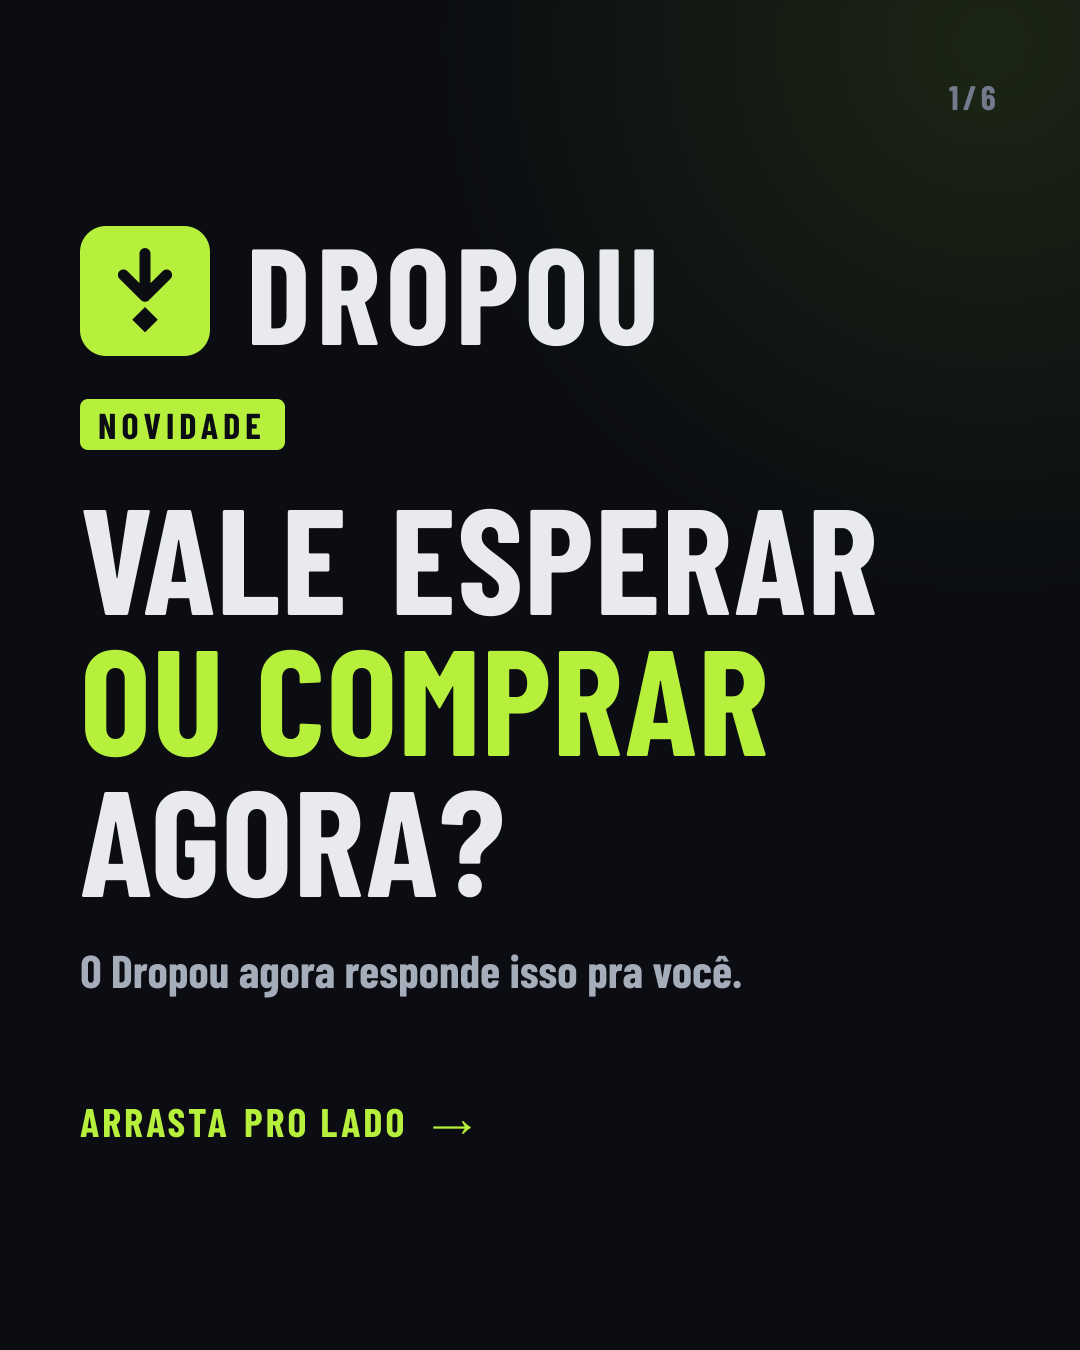
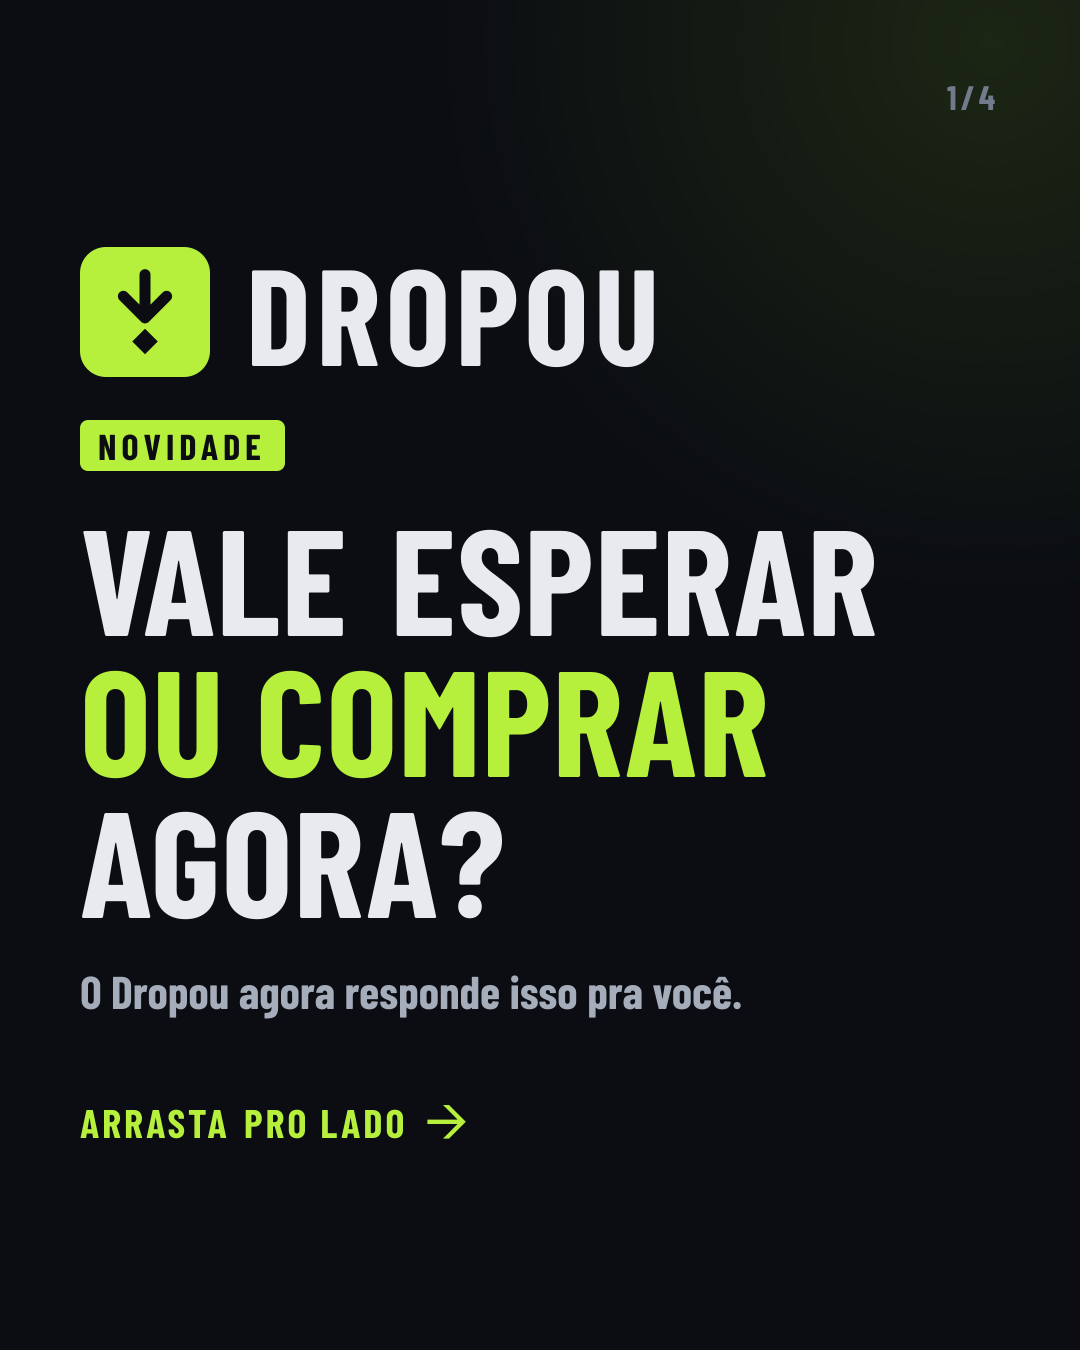
Media kit: carrossel do Vale esperar? mais curto (4 slides) e cartão fiel ao site

diff --git a/scripts/instagram-vale-esperar.tsx b/scripts/instagram-vale-esperar.tsx
@@ -14,11 +14,11 @@ import { getStore } from "../src/lib/stores";
 import type { Verdict } from "../src/lib/verdict";
 import { buildVerdictViews } from "../src/lib/verdict-variants";
 
-const C = { bg: "#0b0d12", surface: "#12151c", surface2: "#181c25", line: "#242a36", text: "#e8eaef", text2: "#a5acba", muted: "#727b8c", accent: "#b6f03c", warn: "#f5b83d", ink: "#0b0d12" };
+const C = { bg: "#0b0d12", surface: "#12151c", line: "#242a36", text: "#e8eaef", text2: "#a5acba", muted: "#727b8c", accent: "#b6f03c", warn: "#f5b83d", ink: "#0b0d12" };
 const W = 1080;
 const H = 1350;
 const OUT = "media-kit/instagram-vale-esperar";
-const TOTAL = 6;
+const TOTAL = 4;
 
 // jogos de exemplo: um em que vale esperar e um em que é bom comprar (os vereditos vêm do banco, na hora)
 const WAIT_SLUG = "age-of-empires-ii-definitive-edition";
@@ -68,6 +68,14 @@ const Sub = ({ children, size = 46 }: { children: ReactNode; size?: number }) =>
   <div style={{ display: "flex", marginTop: 36, fontSize: size, lineHeight: 1.15, color: C.text2 }}>{children}</div>
 );
 
+/** Título de uma linha com um trecho em destaque. */
+const Head = ({ before, lime, size = 88 }: { before: string; lime: string; size?: number }) => (
+  <div style={{ display: "flex", fontSize: size, lineHeight: 0.94, textTransform: "uppercase", letterSpacing: 1 }}>
+    <span style={{ color: C.text }}>{before}</span>
+    <span style={{ color: C.accent, marginLeft: size * 0.22 }}>{lime}</span>
+  </div>
+);
+
 /** Ícones do site (mesmos traços de src/components/icon.tsx). */
 const ICONS = {
   hourglass: ["M6 3h12", "M6 21h12", "M7 3v3a5 5 0 0 0 2 4l3 2-3 2a5 5 0 0 0-2 4v3", "M17 3v3a5 5 0 0 1-2 4l-3 2 3 2a5 5 0 0 1 2 4v3"],
@@ -77,7 +85,7 @@ const ICONS = {
   calendar: ["M5 5h14a1 1 0 0 1 1 1v13a1 1 0 0 1-1 1H5a1 1 0 0 1-1-1V6a1 1 0 0 1 1-1z", "M4 10h16", "M8 3v4", "M16 3v4"],
   clock: ["M12 3a9 9 0 1 0 0 18 9 9 0 0 0 0-18z", "M12 7v5l3 3"],
 } as const;
-const Ico = ({ name, size = 36, color = C.muted }: { name: keyof typeof ICONS; size?: number; color?: string }) => (
+const Ico = ({ name, size, color = C.muted }: { name: keyof typeof ICONS; size: number; color?: string }) => (
   <svg width={size} height={size} viewBox="0 0 24 24" fill="none" stroke={color} strokeWidth={1.8} strokeLinecap="round" strokeLinejoin="round">
     {ICONS[name].map((d) => (
       <path key={d} d={d} />
@@ -107,76 +115,83 @@ async function load(slug: string): Promise<Example> {
 
 const plural = (n: number, one: string, many: string) => `${n} ${n === 1 ? one : many}`;
 
+/** As mesmas frases do cartão do site (src/components/buy-verdict.tsx). */
 function notesOf(v: Verdict): { icon: keyof typeof ICONS; text: string }[] {
   const notes: { icon: keyof typeof ICONS; text: string }[] = [];
   if (v.kind === "wait") notes.push({ icon: "floor", text: `No último ano já custou ${formatCents(v.lowCents)}, ${formatCents(v.currentCents - v.lowCents)} a menos que hoje.` });
-  if (v.kind === "wait" && v.nearLowCount > 0) notes.push({ icon: "chart", text: `Chegou perto desse preço ${plural(v.nearLowCount, "vez", "vezes")} em 12 meses.` });
+  if (v.kind === "wait" && v.nearLowCount > 0) notes.push({ icon: "chart", text: `Chegou perto desse preço ${plural(v.nearLowCount, "vez", "vezes")} nos últimos 12 meses.` });
   if (v.kind === "buy") {
     if (v.daysAtCurrent != null) notes.push({ icon: "clock", text: v.daysAtCurrent < 1 ? "Esse preço começou hoje." : `Esse preço está valendo há ${plural(v.daysAtCurrent, "dia", "dias")}.` });
-    if (v.nearLowCount > 1) notes.push({ icon: "chart", text: `Já chegou perto dele ${plural(v.nearLowCount, "vez", "vezes")} em 12 meses.` });
+    if (v.nearLowCount > 1) notes.push({ icon: "chart", text: `Já chegou perto dele ${plural(v.nearLowCount, "vez", "vezes")} nos últimos 12 meses.` });
   }
-  if (v.sale) notes.push({ icon: "calendar", text: `${v.sale.name}: ${v.sale.approx ? "por volta de " : ""}em ${v.sale.days} dias.` });
+  if (v.sale) {
+    const when = v.sale.days === 0 ? "começa hoje" : v.sale.days === 1 ? "começa amanhã" : `${v.sale.approx ? "por volta de " : ""}em ${v.sale.days} dias`;
+    notes.push({ icon: "calendar", text: `${v.sale.name}: ${when}. Costuma ter descontos maiores.` });
+  }
   return notes;
 }
 
-/** Réplica do cartão "Vale esperar?" do site, com os dados reais do exemplo. */
+/**
+ * Réplica do cartão "Vale esperar?" da página do jogo (src/components/buy-verdict.tsx), com os dados reais do exemplo.
+ * Todas as medidas são as do site (em px) multiplicadas por S, para o cartão ficar legível no celular.
+ */
+const S = 2.0;
+const px = (n: number) => n * S;
+const SANS = "Geist";
+
 function VerdictCard({ ex }: { ex: Example }) {
   const v = ex.verdict;
   const wait = v.kind === "wait";
   const tone = wait ? C.warn : C.accent;
-  const rows: [string, string, string?][] = [];
-  if (ex.historic) rows.push(["Preço histórico", formatCents(ex.historic.cents), [ex.historic.when, ex.historic.store].filter(Boolean).join(" · ")]);
-  if (!ex.historic || ex.historic.cents !== v.lowCents) rows.push(["Menor em 12 meses", formatCents(v.lowCents)]);
-  rows.push(["Média em 12 meses", formatCents(v.avgCents)]);
+  const rows: { label: string; value: string; hint?: string; icon?: keyof typeof ICONS }[] = [];
+  if (ex.historic) rows.push({ label: "Preço histórico", value: formatCents(ex.historic.cents), hint: [ex.historic.when, ex.historic.store].filter(Boolean).join(" · "), icon: "floor" });
+  if (!ex.historic || ex.historic.cents !== v.lowCents) rows.push({ label: "Menor em 12 meses", value: formatCents(v.lowCents) });
+  rows.push({ label: "Média em 12 meses", value: formatCents(v.avgCents) });
+  const notes = notesOf(v);
+
   return (
-    <div style={{ display: "flex", flexDirection: "column", border: `2px solid ${C.line}`, borderRadius: 22, background: C.surface, overflow: "hidden" }}>
-      <div style={{ display: "flex", alignItems: "center", gap: 14, padding: "22px 34px", borderBottom: `2px solid ${C.line}`, fontSize: 30, letterSpacing: 5, textTransform: "uppercase", color: C.text2 }}>
-        <Ico name={wait ? "hourglass" : "check"} size={34} color={tone} />
+    <div style={{ display: "flex", flexDirection: "column", width: 920, border: `${px(1)}px solid ${C.line}`, borderRadius: px(6), background: C.surface, overflow: "hidden" }}>
+      {/* título: h2 em caixa alta com ícone */}
+      <div style={{ display: "flex", alignItems: "center", gap: px(8), padding: `${px(12)}px ${px(20)}px`, borderBottom: `${px(1)}px solid ${C.line}`, fontFamily: "Barlow", fontSize: px(14), letterSpacing: px(2.1), textTransform: "uppercase", color: C.text2 }}>
+        <Ico name={wait ? "hourglass" : "check"} size={px(16)} color={tone} />
         Vale esperar?
       </div>
-      <div style={{ display: "flex", flexDirection: "column", padding: "28px 34px 12px" }}>
-        <div style={{ display: "flex", alignSelf: "flex-start", fontSize: 26, letterSpacing: 3, textTransform: "uppercase", color: tone, border: `2px solid ${wait ? "rgba(245,184,61,0.45)" : "rgba(182,240,60,0.4)"}`, background: wait ? "rgba(245,184,61,0.10)" : "rgba(182,240,60,0.08)", borderRadius: 6, padding: "2px 12px" }}>
+      {/* selo + título do veredito */}
+      <div style={{ display: "flex", flexDirection: "column", gap: px(8), padding: `${px(16)}px ${px(20)}px` }}>
+        <div style={{ display: "flex", alignSelf: "flex-start", fontFamily: SANS, fontSize: px(11), lineHeight: `${px(16)}px`, letterSpacing: px(0.55), textTransform: "uppercase", color: tone, border: `${px(1)}px solid ${wait ? "rgba(245,184,61,0.4)" : "rgba(182,240,60,0.35)"}`, background: wait ? "rgba(245,184,61,0.1)" : "rgba(182,240,60,0.08)", borderRadius: px(3), padding: `${px(1)}px ${px(6)}px` }}>
           {wait ? "Vale esperar" : "Bom momento"}
         </div>
-        <div style={{ display: "flex", marginTop: 16, fontSize: 68, lineHeight: 1, textTransform: "uppercase" }}>{v.title}</div>
-        <div style={{ display: "flex", marginTop: 14, fontSize: 32, color: C.muted }}>{`${ex.title} · hoje ${formatCents(v.currentCents)}`}</div>
+        <div style={{ display: "flex", fontFamily: "Barlow", fontSize: px(24), lineHeight: 1.25, color: C.text }}>{v.title}</div>
       </div>
-      <div style={{ display: "flex", flexDirection: "column", gap: 14, padding: "10px 34px 26px" }}>
-        {notesOf(v).map((n) => (
-          <div key={n.text} style={{ display: "flex", alignItems: "flex-start", gap: 16, fontSize: 34, lineHeight: 1.1, color: C.text2 }}>
-            <div style={{ display: "flex", marginTop: 2 }}>
-              <Ico name={n.icon} size={34} />
+      {/* notas com ícone */}
+      {notes.length > 0 && (
+        <div style={{ display: "flex", flexDirection: "column", gap: px(8), padding: `0 ${px(20)}px ${px(16)}px` }}>
+          {notes.map((n) => (
+            <div key={n.text} style={{ display: "flex", alignItems: "flex-start", gap: px(10), fontFamily: SANS, fontSize: px(14), lineHeight: `${px(20)}px`, color: C.text2 }}>
+              <div style={{ display: "flex", marginTop: px(2) }}>
+                <Ico name={n.icon} size={px(16)} />
+              </div>
+              <div style={{ display: "flex", flex: 1 }}>{n.text}</div>
             </div>
-            <div style={{ display: "flex", flex: 1 }}>{n.text}</div>
+          ))}
+        </div>
+      )}
+      {/* preço histórico, menor e média */}
+      {rows.map((r) => (
+        <div key={r.label} style={{ display: "flex", alignItems: "baseline", justifyContent: "space-between", gap: px(12), padding: `${px(10)}px ${px(20)}px`, borderTop: `${px(1)}px solid ${C.line}`, fontFamily: SANS, fontSize: px(14) }}>
+          <div style={{ display: "flex", alignItems: "center", gap: px(6), color: C.muted }}>
+            {r.icon && <Ico name={r.icon} size={px(16)} />}
+            {r.label}
           </div>
-        ))}
-      </div>
-      {rows.map(([label, value, hint]) => (
-        <div key={label} style={{ display: "flex", alignItems: "center", justifyContent: "space-between", padding: "16px 34px", borderTop: `2px solid ${C.line}` }}>
-          <div style={{ display: "flex", fontSize: 32, color: C.muted }}>{label}</div>
           <div style={{ display: "flex", flexDirection: "column", alignItems: "flex-end" }}>
-            <div style={{ display: "flex", fontSize: 40, color: C.text }}>{value}</div>
-            {hint && <div style={{ display: "flex", fontSize: 24, color: C.muted }}>{hint}</div>}
+            <div style={{ display: "flex", fontFamily: "Barlow", fontSize: px(17), color: C.text }}>{r.value}</div>
+            {r.hint && <div style={{ display: "flex", fontSize: px(12), color: C.muted }}>{r.hint}</div>}
           </div>
         </div>
       ))}
-    </div>
-  );
-}
-
-/** Seletor de plataformas do cabeçalho, com uma marcada, para o slide "muda conforme o que você joga". */
-function PlatformChips({ active }: { active: string }) {
-  const items = ["PC", "PlayStation", "Xbox", "Nintendo"];
-  return (
-    <div style={{ display: "flex", gap: 16, flexWrap: "wrap" }}>
-      {items.map((p) => {
-        const on = p === active;
-        return (
-          <div key={p} style={{ display: "flex", fontSize: 42, letterSpacing: 2, textTransform: "uppercase", padding: "12px 30px", borderRadius: 12, border: `2px solid ${on ? C.accent : C.line}`, background: on ? C.accent : C.surface, color: on ? C.ink : C.text2 }}>
-            {p}
-          </div>
-        );
-      })}
+      <div style={{ display: "flex", padding: `${px(8)}px ${px(20)}px`, borderTop: `${px(1)}px solid ${C.line}`, fontFamily: SANS, fontSize: px(11), color: C.muted }}>
+        Estimativa pelo histórico de preços. Não é garantia de que o preço vai cair.
+      </div>
     </div>
   );
 }
@@ -195,40 +210,25 @@ const buildSlides = (wait: Example, buy: Example): ReactNode[] => [
   </Frame>,
 
   <Frame key="2" n={2}>
-    <Big size={118} lines={[["Todo desconto"], ["é um bom"], ["desconto?", true]]} />
-    <Sub size={50}>Nem sempre. Tem jogo que já ficou muito mais barato, e tem jogo que está no menor preço agora.</Sub>
-    <Sub size={50}>Saber a diferença pode te poupar vários reais.</Sub>
-  </Frame>,
-
-  <Frame key="3" n={3}>
-    <Big size={92} lines={[["Quando vale"], ["esperar", true]]} />
-    <div style={{ display: "flex", flexDirection: "column", marginTop: 34 }}>
+    <Head before="Quando vale" lime="esperar" />
+    <div style={{ display: "flex", marginTop: 40 }}>
       <VerdictCard ex={wait} />
     </div>
   </Frame>,
 
-  <Frame key="4" n={4}>
-    <Big size={92} lines={[["Quando é bom"], ["comprar", true]]} />
-    <div style={{ display: "flex", flexDirection: "column", marginTop: 34 }}>
+  <Frame key="3" n={3}>
+    <Head before="Quando é bom" lime="comprar" />
+    <div style={{ display: "flex", marginTop: 40 }}>
       <VerdictCard ex={buy} />
     </div>
   </Frame>,
 
-  <Frame key="5" n={5}>
-    <Big size={112} lines={[["Muda conforme"], ["o que você joga", true]]} />
-    <div style={{ display: "flex", marginTop: 56 }}>
-      <PlatformChips active="PlayStation" />
-    </div>
-    <Sub size={48}>Marque suas plataformas no site e o veredito considera só as lojas que importam pra você.</Sub>
-    <Sub size={36}>Baseado no histórico de preços dos últimos 12 meses. É uma estimativa, não uma garantia.</Sub>
-  </Frame>,
-
-  <Frame key="6" n={6} footer={false}>
+  <Frame key="4" n={4} footer={false}>
     <Lockup size={110} />
     <div style={{ display: "flex", marginTop: 64 }}>
-      <Big size={140} lines={[["Teste agora."], ["É de graça.", true]]} />
+      <Big size={130} lines={[["Teste no seu"], ["próximo jogo", true]]} />
     </div>
-    <Sub size={44}>Abra um jogo no site e veja se vale esperar.</Sub>
+    <Sub size={44}>Grátis, sem cadastro, e muda conforme as plataformas que você marcar.</Sub>
     <div style={{ display: "flex", alignItems: "center", gap: 20, marginTop: 70 }}>
       <div style={{ display: "flex", fontSize: 70, background: C.accent, color: C.ink, borderRadius: 14, padding: "10px 34px", letterSpacing: 1 }}>{BRAND.domain}</div>
       <div style={{ display: "flex", fontSize: 32, letterSpacing: 3, textTransform: "uppercase", border: `2px solid ${C.accent}`, color: C.accent, borderRadius: 10, padding: "4px 16px" }}>beta</div>
@@ -240,9 +240,18 @@ async function main() {
   const [wait, buy] = await Promise.all([load(WAIT_SLUG), load(BUY_SLUG)]);
   console.log("exemplos:", wait.title, wait.verdict.kind, "|", buy.title, buy.verdict.kind);
   const barlow = await readFile("src/assets/BarlowCondensed-Bold.ttf");
+  // o site usa Inter no texto corrido; o Geist (já incluído no Next) é o mais parecido que temos em arquivo
+  const geist = await readFile("node_modules/next/dist/compiled/@vercel/og/Geist-Regular.ttf");
   await mkdir(OUT, { recursive: true });
   for (const [i, slide] of buildSlides(wait, buy).entries()) {
-    const res = new ImageResponse(slide as React.ReactElement, { width: W, height: H, fonts: [{ name: "Barlow", data: barlow, weight: 700, style: "normal" }] });
+    const res = new ImageResponse(slide as React.ReactElement, {
+      width: W,
+      height: H,
+      fonts: [
+        { name: "Barlow", data: barlow, weight: 700, style: "normal" },
+        { name: "Geist", data: geist, weight: 400, style: "normal" },
+      ],
+    });
     await writeFile(`${OUT}/slide-${i + 1}.png`, Buffer.from(await res.arrayBuffer()));
     console.log("✓ slide", i + 1);
   }

diff --git a/media-kit/instagram-vale-esperar/legenda.md b/media-kit/instagram-vale-esperar/legenda.md
@@ -1,6 +1,6 @@
 # Post do Instagram: novidade "Vale esperar?" (@dropou.br)
 
-Carrossel de 6 slides (1080×1350, 4:5): `slide-1.png` a `slide-6.png`. Para gerar de novo: `DOTENV_CONFIG_PATH=.env.turso npx tsx scripts/instagram-vale-esperar.tsx` (os cartões dos slides 3 e 4 usam preços reais do banco; os jogos de exemplo ficam no topo do script).
+Carrossel de 4 slides (1080×1350, 4:5): `slide-1.png` a `slide-4.png`. Para gerar de novo: `DOTENV_CONFIG_PATH=.env.turso npx tsx scripts/instagram-vale-esperar.tsx` (os cartões dos slides 2 e 3 são réplicas do cartão do site, com preços reais do banco; os jogos de exemplo ficam no topo do script).
 
 Os números dos slides são de 7/10/2026. Se o post demorar para sair, gere de novo para atualizar preços e a contagem de dias até a Black Friday.
 
@@ -8,14 +8,14 @@ Os números dos slides são de 7/10/2026. Se o post demorar para sair, gere de n
 
 Novidade no Dropou: agora ele diz se vale esperar ou comprar agora 👀
 
-Nem todo desconto é um bom desconto. Em cada jogo, o site olha o histórico de preços dos últimos 12 meses e mostra:
-⏳ quando costuma ficar mais barato (e quanto você economizaria esperando)
+Em cada jogo, o site olha o histórico de preços dos últimos 12 meses e mostra:
+⏳ quando costuma ficar mais barato
 ✅ quando já está no menor preço ou perto dele
 📉 o preço histórico, a média do ano e quanto falta pra próxima grande promoção
 
-E muda conforme o que você joga: marque suas plataformas no site e o veredito considera só as lojas que importam pra você 🎮
+E muda conforme as plataformas que você marcar 🎮
 
-É uma estimativa pelo histórico, não uma garantia, mas ajuda a não comprar caro à toa. Testa com o seu próximo jogo e me conta o que achou 💚
+É uma estimativa pelo histórico, não uma garantia. Testa com o seu próximo jogo e me conta o que achou 💚
 
 Link na bio → dropou.com.br
 
